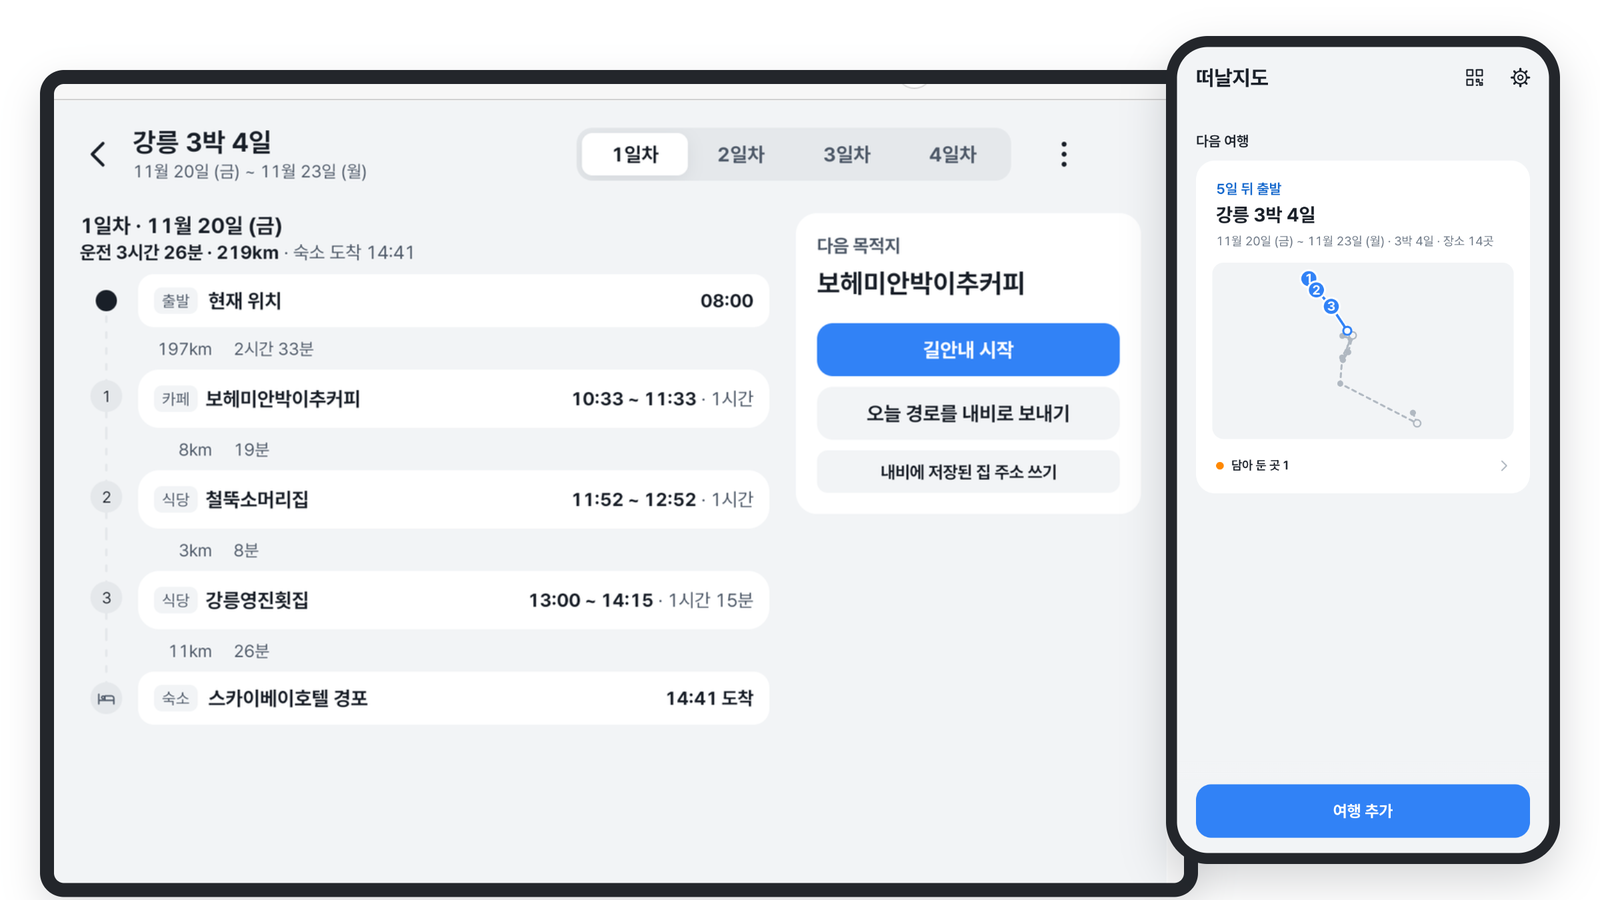
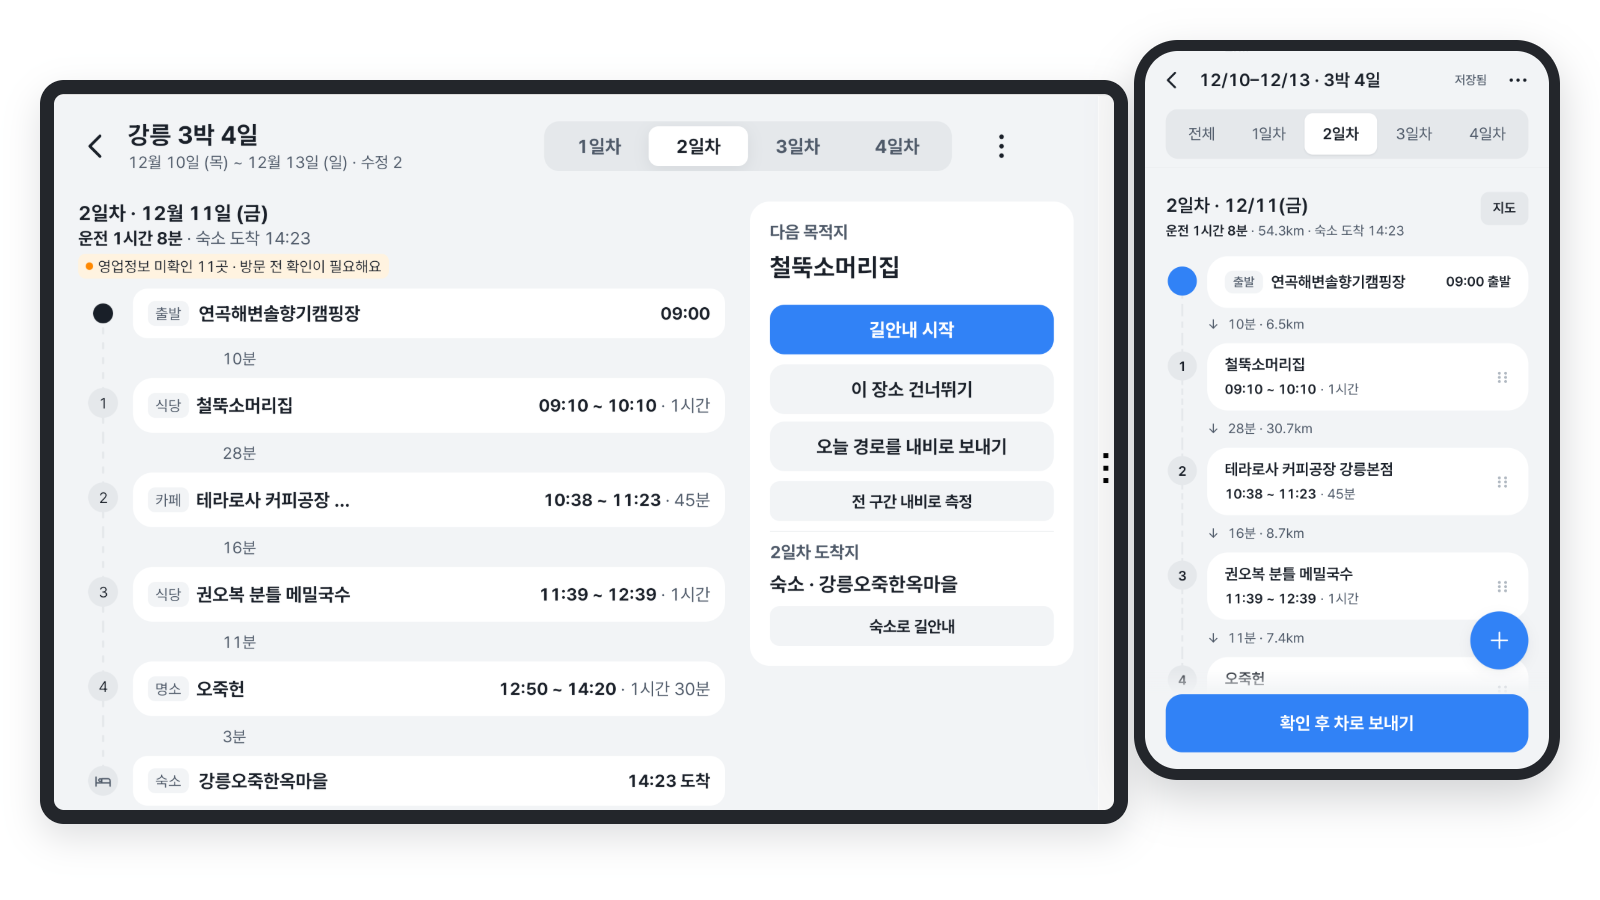
문서: 시험 수·APK 버전·개발 기록과 README 첫 그림을 최신 상태로 맞춤 (TS 475, 휴대폰 0.3.3, 예시 여행)

diff --git a/docs/05_개발_계획.md b/docs/05_개발_계획.md
@@ -1,6 +1,6 @@
 # 05 개발 기록과 남은 일
 
-기준일 2026-11-15 · 서명 release APK 0.9.1(10) · 배포 `https://tteonaljido.tteonaljido-worker.workers.dev`
+기준일 2026-11-15 · 서명 release APK 차량 0.9.1(10) · 휴대폰 0.3.3(6) · 배포 `https://tteonaljido.tteonaljido-worker.workers.dev`
 
 ## 1. 남은 일
 
@@ -17,6 +17,8 @@
 날짜별로 무엇이 바뀌었는지입니다. 자세한 커밋은 `git log`(첫 줄 `영역: 무엇을`)에 있습니다.
 
 ### 2026-11-15
+- 휴대폰: 운영 웹·휴대폰 앱 첫 실행에 강릉 예시 여행(12월 10~13일, 네이버 저장목록 14곳) 한 번만 추가. 휴대폰 APK 0.3.3
+- 문서: 마켓 스크린샷 원본 40장(차량 0.9.1·휴대폰 0.3.2, `docs/evidence/2026-11-15-market-screenshots/`), README 첫 그림을 같은 2일차의 차량·휴대폰 화면으로 교체
 - 차량: 다음 목적지 패널에 [이 장소 건너뛰기](예약한 곳은 확인 후)와 그날의 도착지·[숙소로 길안내], 예약 시각 강조 태그. 내비 집 주소는 더보기 메뉴로. APK 0.9.1 (화면: `docs/evidence/2026-11-15_차량-건너뛰기-숙소-안내/`)
 - 차량: 여행 상세를 정리 — 장소 카드 한 줄(종류 뱃지·시간·머무는 시간·경고 뱃지), 일정 2/3·다음 목적지 1/3, 일차 선택은 헤더 오른쪽 위·오늘 날짜의 일차 자동 선택, 버튼은 [길안내 시작]·[오늘 경로를 내비로 보내기]만 기본, 되돌리기·삭제는 더보기(⋮), 구간은 '거리 · 시간' 두 열
 - 차량: 메인 카드에 카카오 정적 지도 미리보기(서버가 키를 붙여 중계, 이미지는 저장하지 않고 열 때마다 받음, 실패하면 그린 스케치)
@@ -112,7 +114,7 @@
 - **상태 머신**: 서버 전이(`transition`)와 차량 리듀서(`CarHandoffMachine`)를 순수 함수로 두고 표 형태로 시험합니다.
 - **실행 환경 시험**: 중계 서버는 workerd(`@cloudflare/vitest-pool-workers`)에서 짧은 유효시간으로 만료·묘비 삭제까지 실제 시간으로 확인합니다.
 - **E2E**: 브라우저(가짜 차량)와 에뮬레이터(실제 차량 앱 + Chrome 휴대폰)로 흐름 전체를 돌리고, 화면을 `docs/evidence/`에 남깁니다.
-- **현재 결과**(2026-11-15): TypeScript 392(shared 115 · worker 73 · web 204), Kotlin 225 모두 통과. 모바일 E2E(`npm run e2e`) 15항목·차량 에뮬레이터 E2E 16항목, 서명 release APK ↔ 배포 서버 실제 연동 15항목(`tools/live-pair.mts`, 화면 `docs/evidence/live-pair/`).
+- **현재 결과**(2026-11-15): TypeScript 475(shared 119 · worker 75 · web 281), Kotlin 225 모두 통과. 모바일 E2E(`npm run e2e`) 15항목·차량 에뮬레이터 E2E 16항목, 서명 release APK ↔ 배포 서버 실제 연동 15항목(`tools/live-pair.mts`, 화면 `docs/evidence/live-pair/`).
 
 ## 5. 위험
 

diff --git a/docs/02_기술_구조.md b/docs/02_기술_구조.md
@@ -313,8 +313,8 @@ stateDiagram-v2
 | 대상 | 명령 | 결과 (2026-11-12) |
 |---|---|---|
 | shared | `npm test -w @tteonaljido/shared` | 119개 통과 (`optimizer` 24건 — 계획 규칙·배치·날짜별 장소 수·잴 수 없는 구간·숙소·빈 시간 · 시각표 교차 검증, Fleet 웹훅 payload·준비 점검 `fleet` 포함) |
-| worker | `npm test -w @tteonaljido/worker` (workerd에서 실행) | 53개 통과 (장소 종류 `kakao` 3건 · 길찾기 `route`, 앱 출처 CORS `cors`, Fleet 웹훅 `fleet` 포함) |
-| web | `npm test -w @tteonaljido/web` | 172개 통과 (`laterStart` 7건 · `recommend` · `fasterOrder` · `routePaths` · `trips`(`leaveFor`) · `routeTimes` · `nextTrip` 포함) |
+| worker | `npm test -w @tteonaljido/worker` (workerd에서 실행) | 75개 통과 (장소 종류 `kakao` 3건 · 길찾기 `route`, 앱 출처 CORS `cors`, Fleet 웹훅 `fleet` 포함) |
+| web | `npm test -w @tteonaljido/web` | 281개 통과 (`exampleTrip` — 첫 방문 예시 여행 한 번만·수정·삭제 보존 · `laterStart` 7건 · `recommend` · `fasterOrder` · `routePaths` · `trips`(`leaveFor`) · `routeTimes` · `nextTrip` 포함) |
 | car | `cd car && ./gradlew test` | 225개 통과 (`DayEndTest` 4건 — 그날의 도착지 · `NaviPlanTest` 15건 — 경로 엮기·차이로 구간 구하기·순서 최적화·차량 순서 · 출발지 규칙 3건 · 첫 구간 자동 계산 3건 포함 · `DepartureCheckTest` · `EnergyOutlookTest` · `RestAdvisorTest` · `TodayRouteRuleTest` · `DeferTest` · `EnergyPolicyTest` · 주차·체류 뼈대(미반영) · `TimelineParityTest` 포함) |
 | E2E(모바일) | `npx tsx tools/e2e-mobile.mts <배포 URL>` | 15개 항목 통과 (`/add` 공유 수집·친구 공유 포함) |
 | 서버 스모크 | `npx tsx tools/pairing-smoke.mts http://localhost:8787` | 통과 |

diff --git a/packages/mobile/README.md b/packages/mobile/README.md
@@ -77,6 +77,13 @@ npm run run:ios -w @tteonaljido/mobile
 
 QR 내용(`#v1.sid.scanSecret.fp`), 종단간 암호화, 전송 스키마, 저장 위치(휴대폰 안 IndexedDB)는 웹과 같습니다.
 
+## 확인한 것 (2026-11-15, 0.3.3)
+
+- APK: 기존 인증서와 같은 서명 v2+v3, 버전 0.3.3(6), 앱용 웹 파일에 예시 여행 데이터 포함
+- 앱에 묶인 웹 파일을 기록 없는 브라우저로 열어 첫 화면의 '예시 · 강릉 3박 4일 · 장소 14곳' 확인
+- Android 15 휴대폰 에뮬레이터: 0.3.2 위에 업데이트 설치. 기존 여행은 다음 여행에 그대로, 예시 여행은 다른 여행 목록에 한 번 추가
+- 전체 TypeScript 시험 475개(공용 119 · 서버 75 · 웹 281) 통과
+
 ## 확인한 것 (2026-11-15, 0.3.2)
 
 - 운영 웹: 빌드한 JavaScript와 배포 파일의 SHA-256 일치, 서버 health 및 앱 출처(`https://localhost`)의 CORS 응답 확인. 실제 네이버 저장목록 14곳 불러오기, `14/14` 선택 수, 원래 장소명, 차량 연결 안내와 설정의 출발·도착 기본값 선택창 확인
